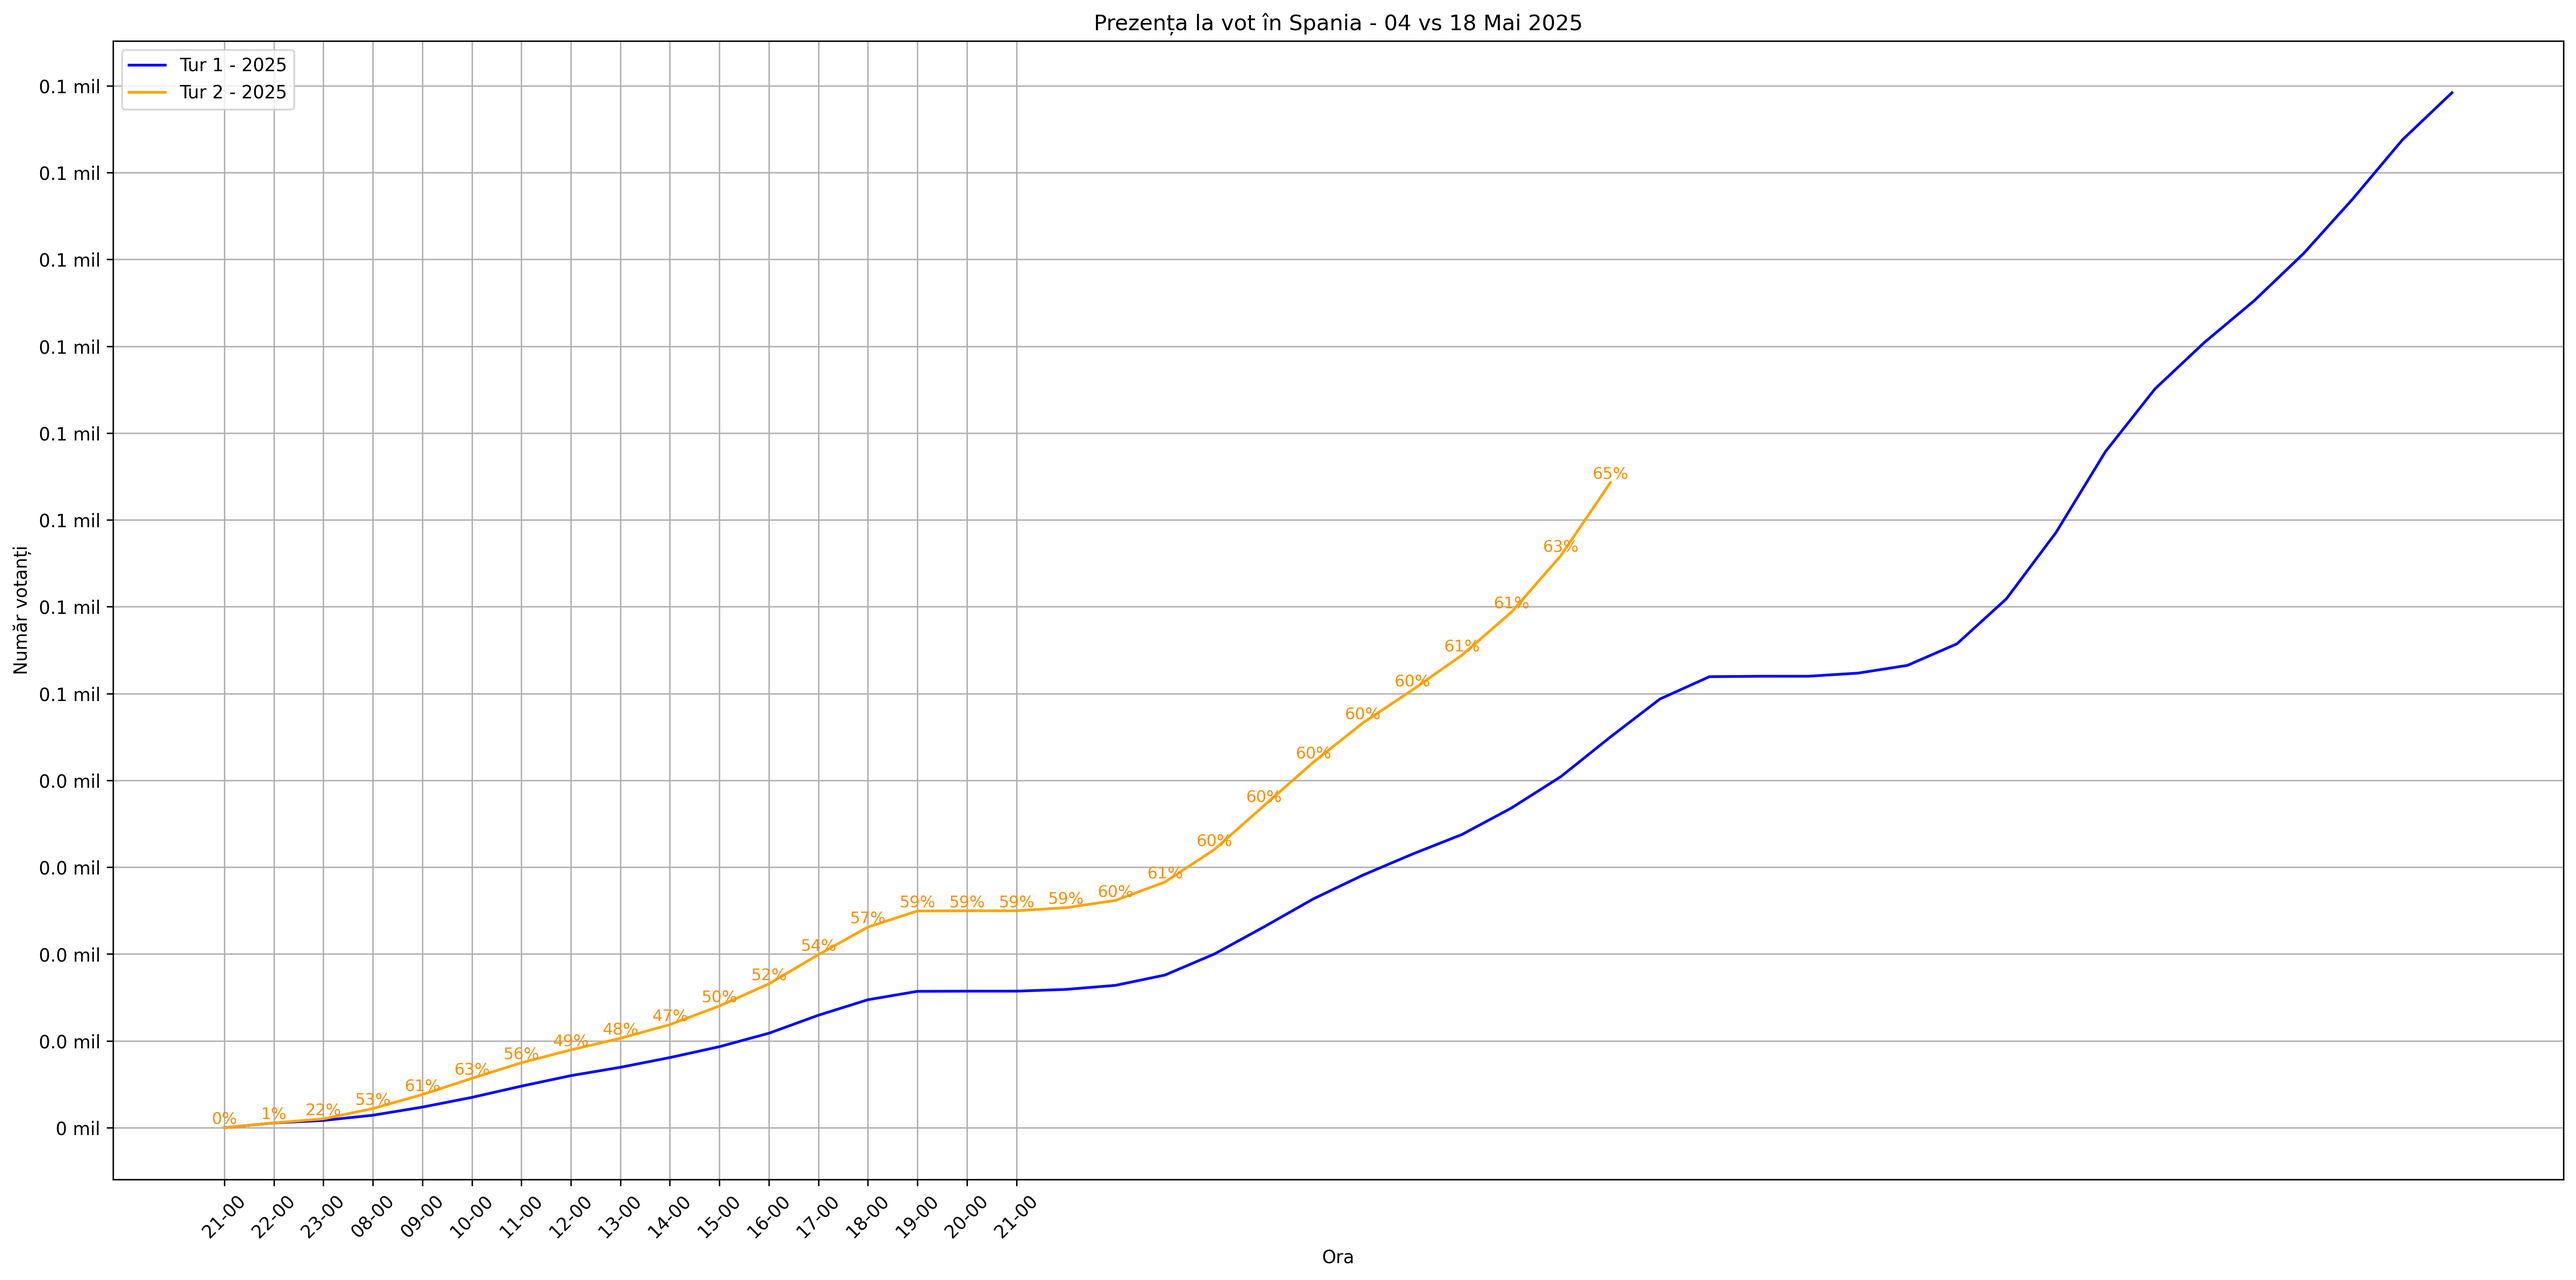
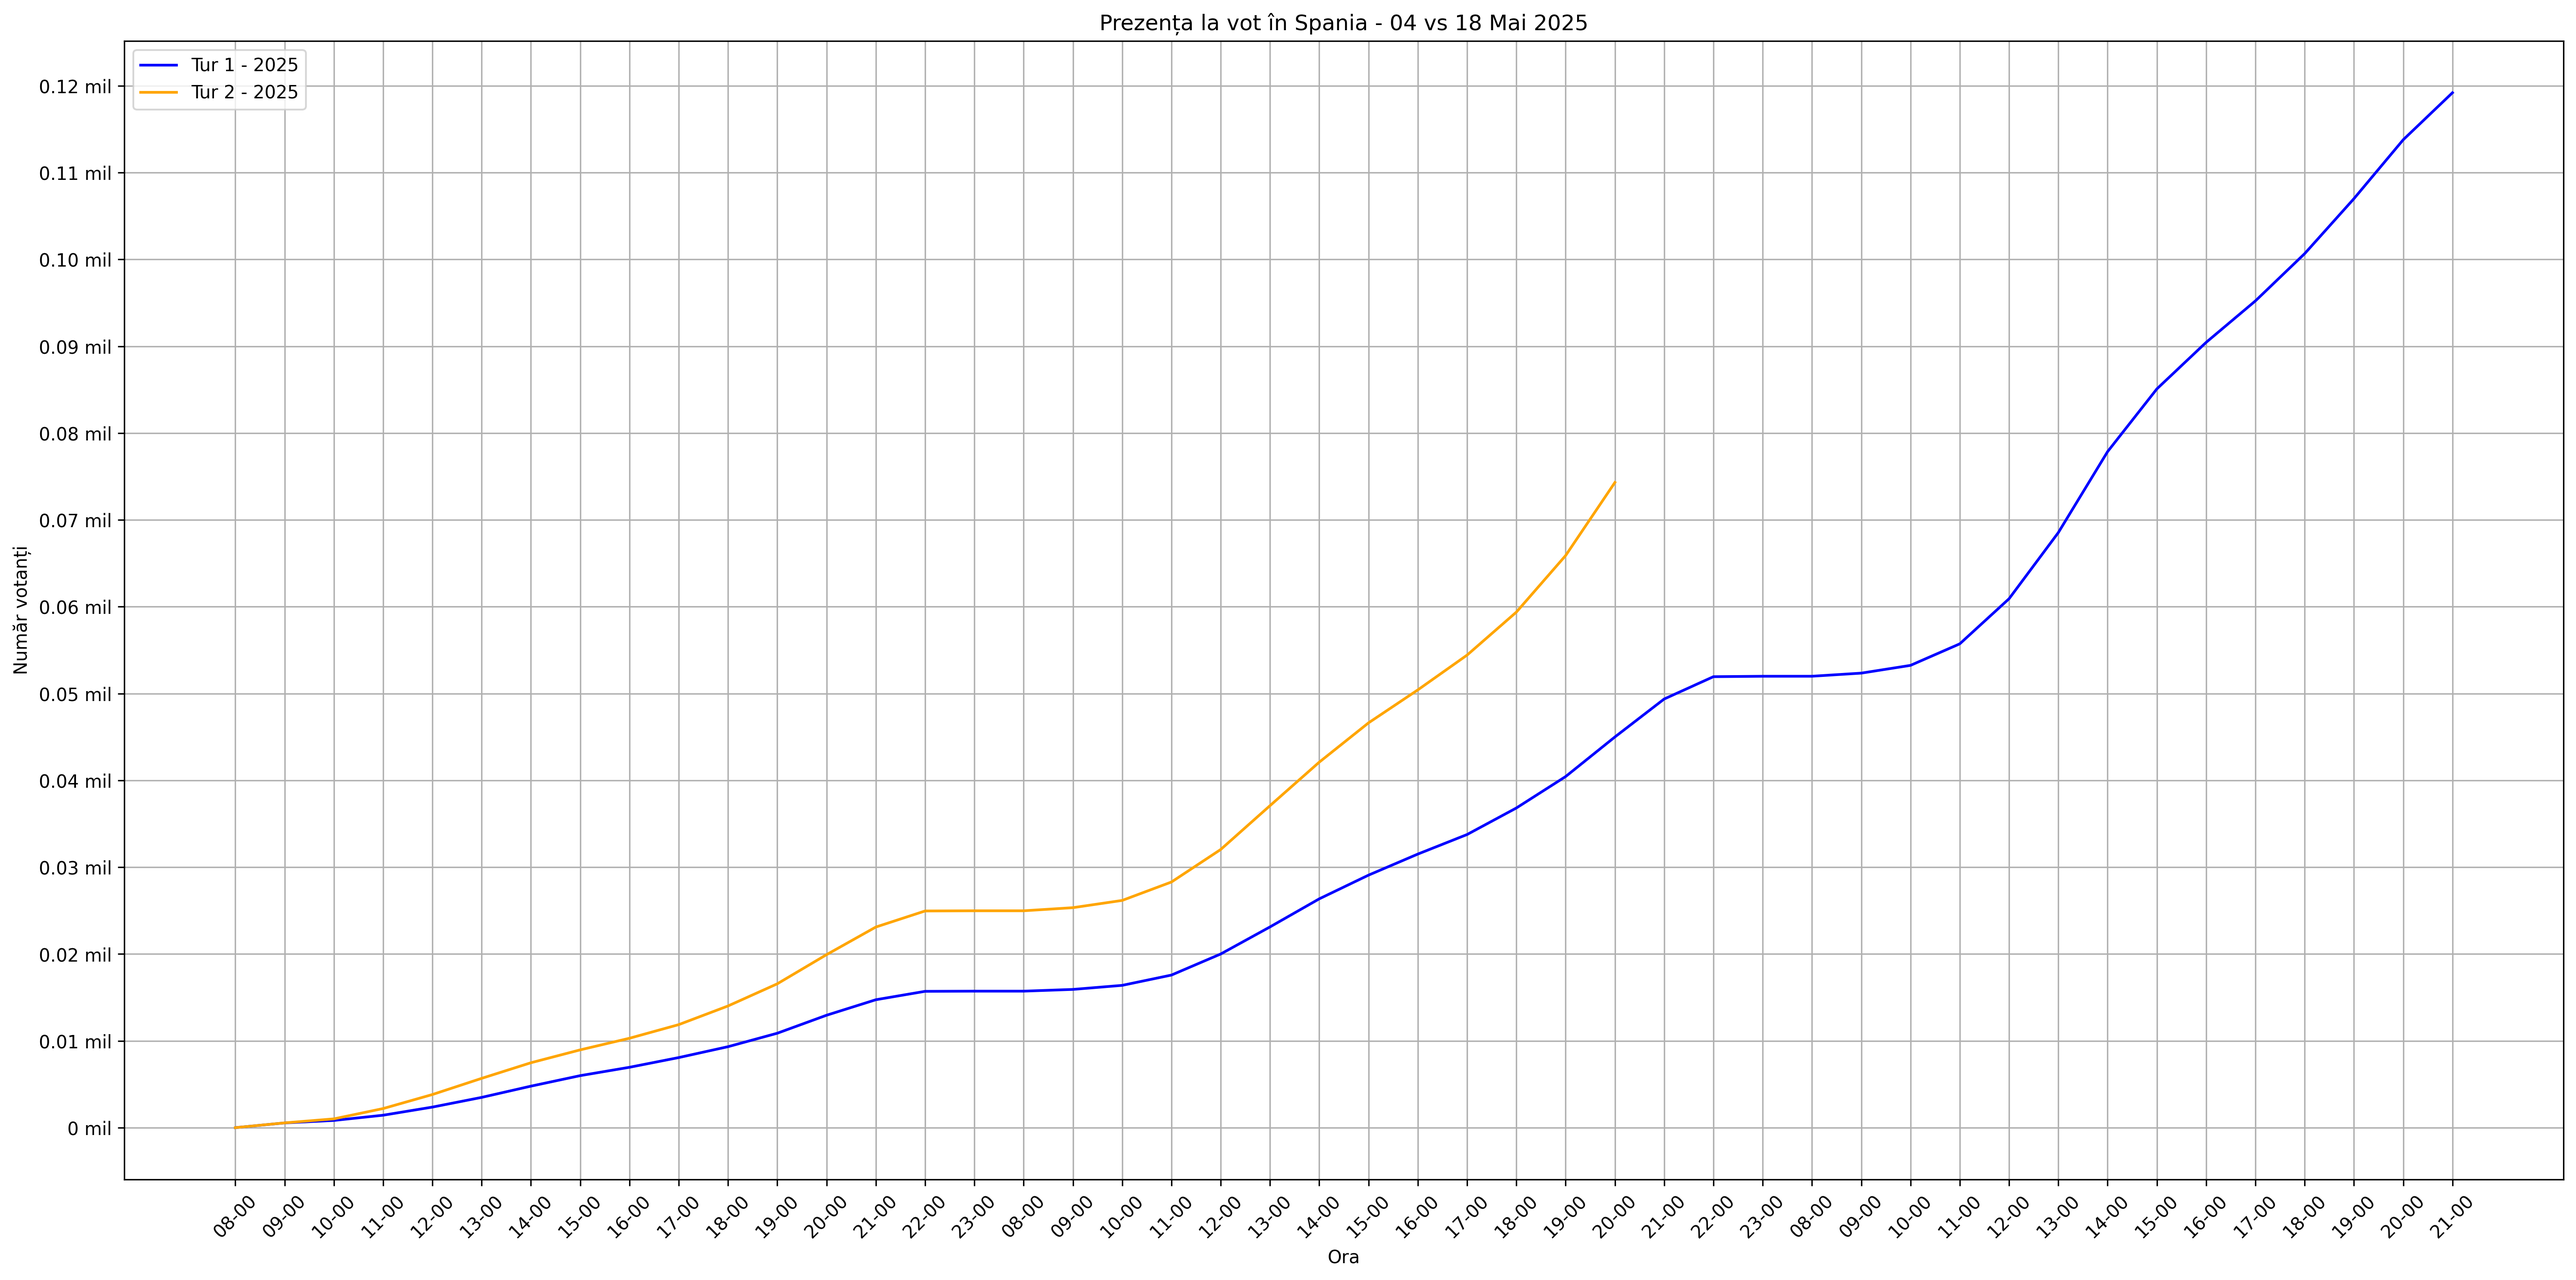
fixes

diff --git a/main.py b/main.py
@@ -132,13 +132,9 @@ def read_votes(paths, date_folder, judet=None, uat=None):
 
 def mil_formatter(x, pos):
     val = x / 1_000_000
-    return f"{val:.1f} mil" if val % 1 else f"{int(val)} mil"
+    return f"{val:.2f} mil" if val % 1 else f"{int(val)} mil"
 
 def plot_votes(timp, vot1, vot2, titlu, filename, step_y=500_000):
-
-    while len(vot2) > 0 and vot2[0] == 0:
-        vot2.pop(0)
-        timp.pop(0)
     
     fig, ax = plt.subplots(figsize=(20, 10))
     ax.plot(vot1, label='Tur 1 - 2025', color='blue')
@@ -162,10 +158,12 @@ def plot_votes(timp, vot1, vot2, titlu, filename, step_y=500_000):
     min_len = min(len(vot1), len(vot2))
     vot1_trim = np.array(vot1[:min_len])
     vot2_trim = np.array(vot2[:min_len])
-
-    procent = (vot2_trim - vot1_trim) / vot1_trim * 100
-    for i, (x, y, p) in enumerate(zip(range(min_len), vot2[:min_len], procent)):
-        ax.text(x, y, f"{p:.0f}%", color='darkorange', fontsize=9, ha='center', va='bottom')
+    procent = []
+    for v1, v2 in zip(vot1_trim, vot2_trim):
+        if v1 == 0 or np.isnan(v1):
+            procent.append(np.nan)
+        else:
+            procent.append((v2 - v1) / v1 * 100)
 
     plt.tight_layout()
     plt.savefig(filename, dpi=300, bbox_inches='tight')
@@ -217,3 +215,8 @@ plot_votes(timp, vot1_es, vot2_es, "Prezența la vot în Spania - 04 vs 18 Mai 2
 vot1_de = read_votes(tur1_2025, '04052025', judet='SR', uat="GERMANIA")
 vot2_de = read_votes(tur2_2025, '18052025', judet='SR', uat="GERMANIA")
 plot_votes(timp, vot1_de, vot2_de, "Prezența la vot în Germania - 04 vs 18 Mai 2025", "votanti_germania_2025.png", step_y=10_000)
+
+# 9. Franța
+vot1_fr = read_votes(tur1_2025, '04052025', judet='SR', uat="FRANȚA")
+vot2_fr = read_votes(tur2_2025, '18052025', judet='SR', uat="FRANȚA")
+plot_votes(timp, vot1_fr, vot2_fr, "Prezența la vot în Franța - 04 vs 18 Mai 2025", "votanti_franta_2025.png", step_y=10_000)
